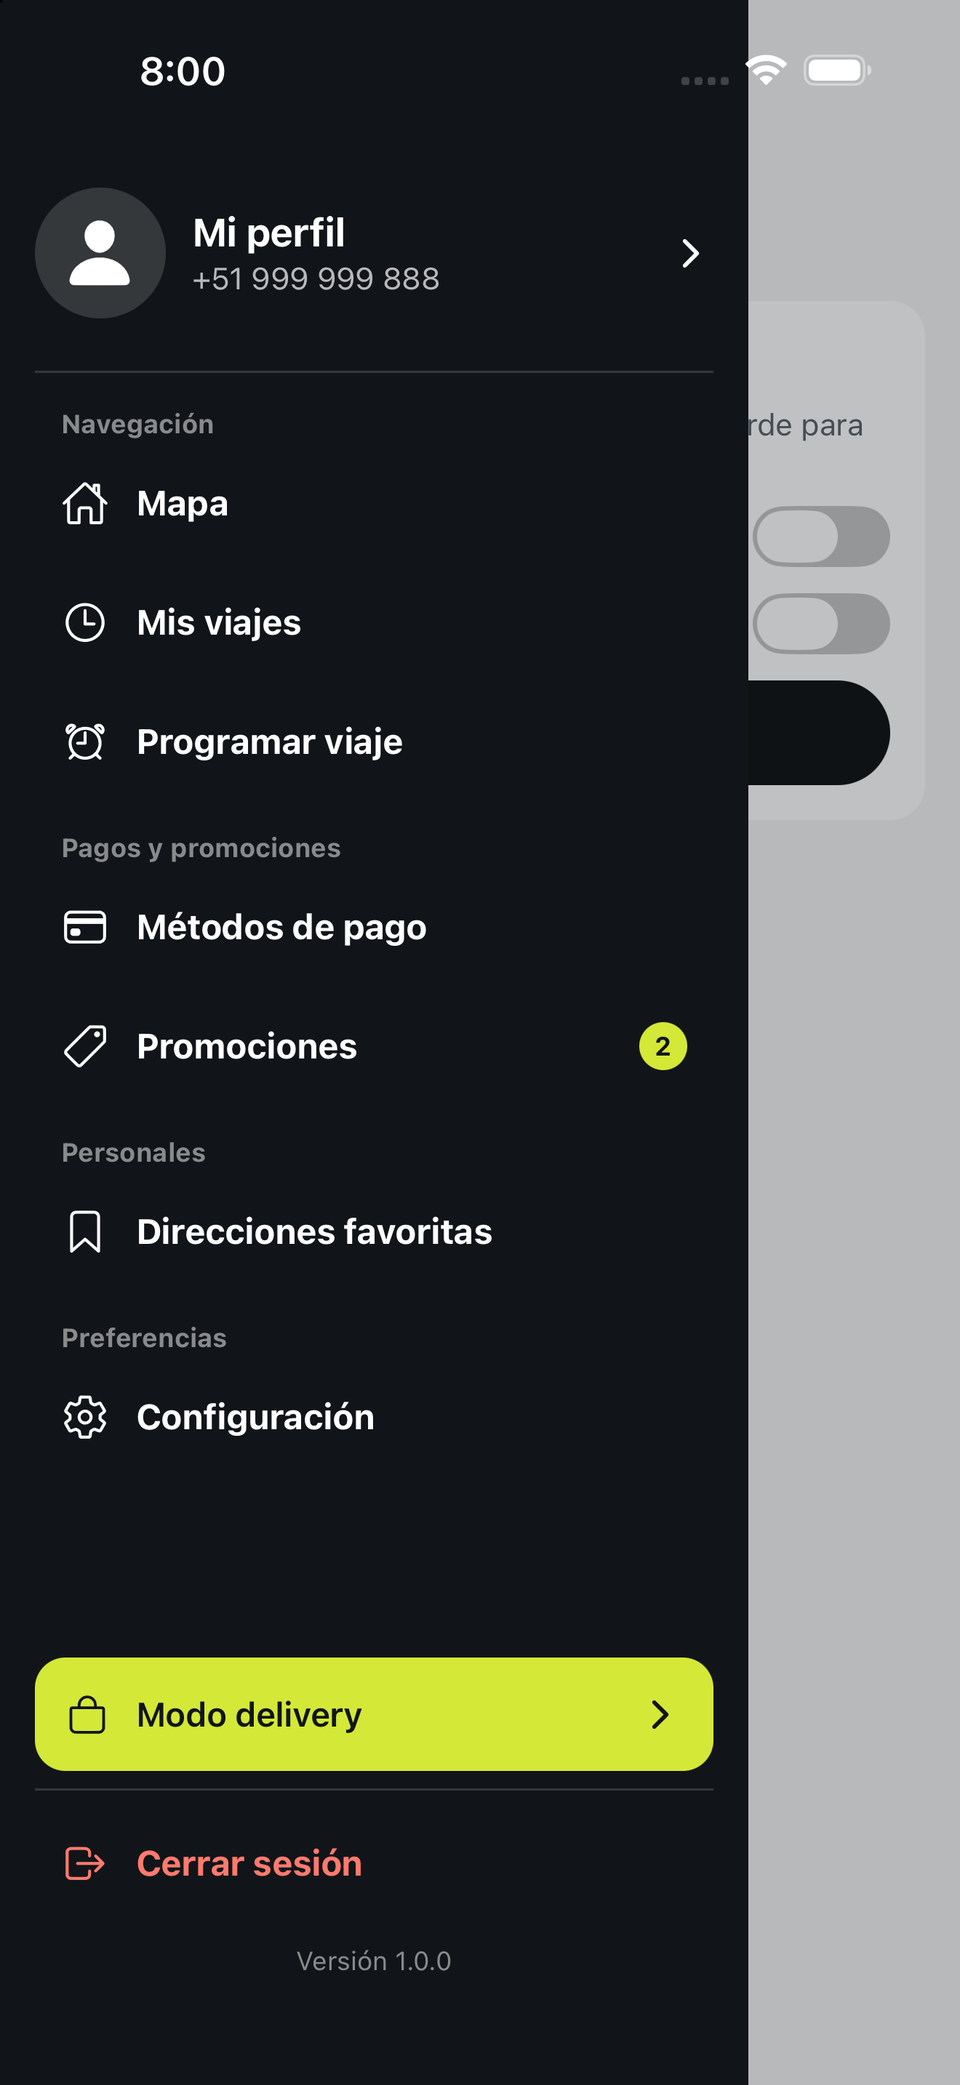
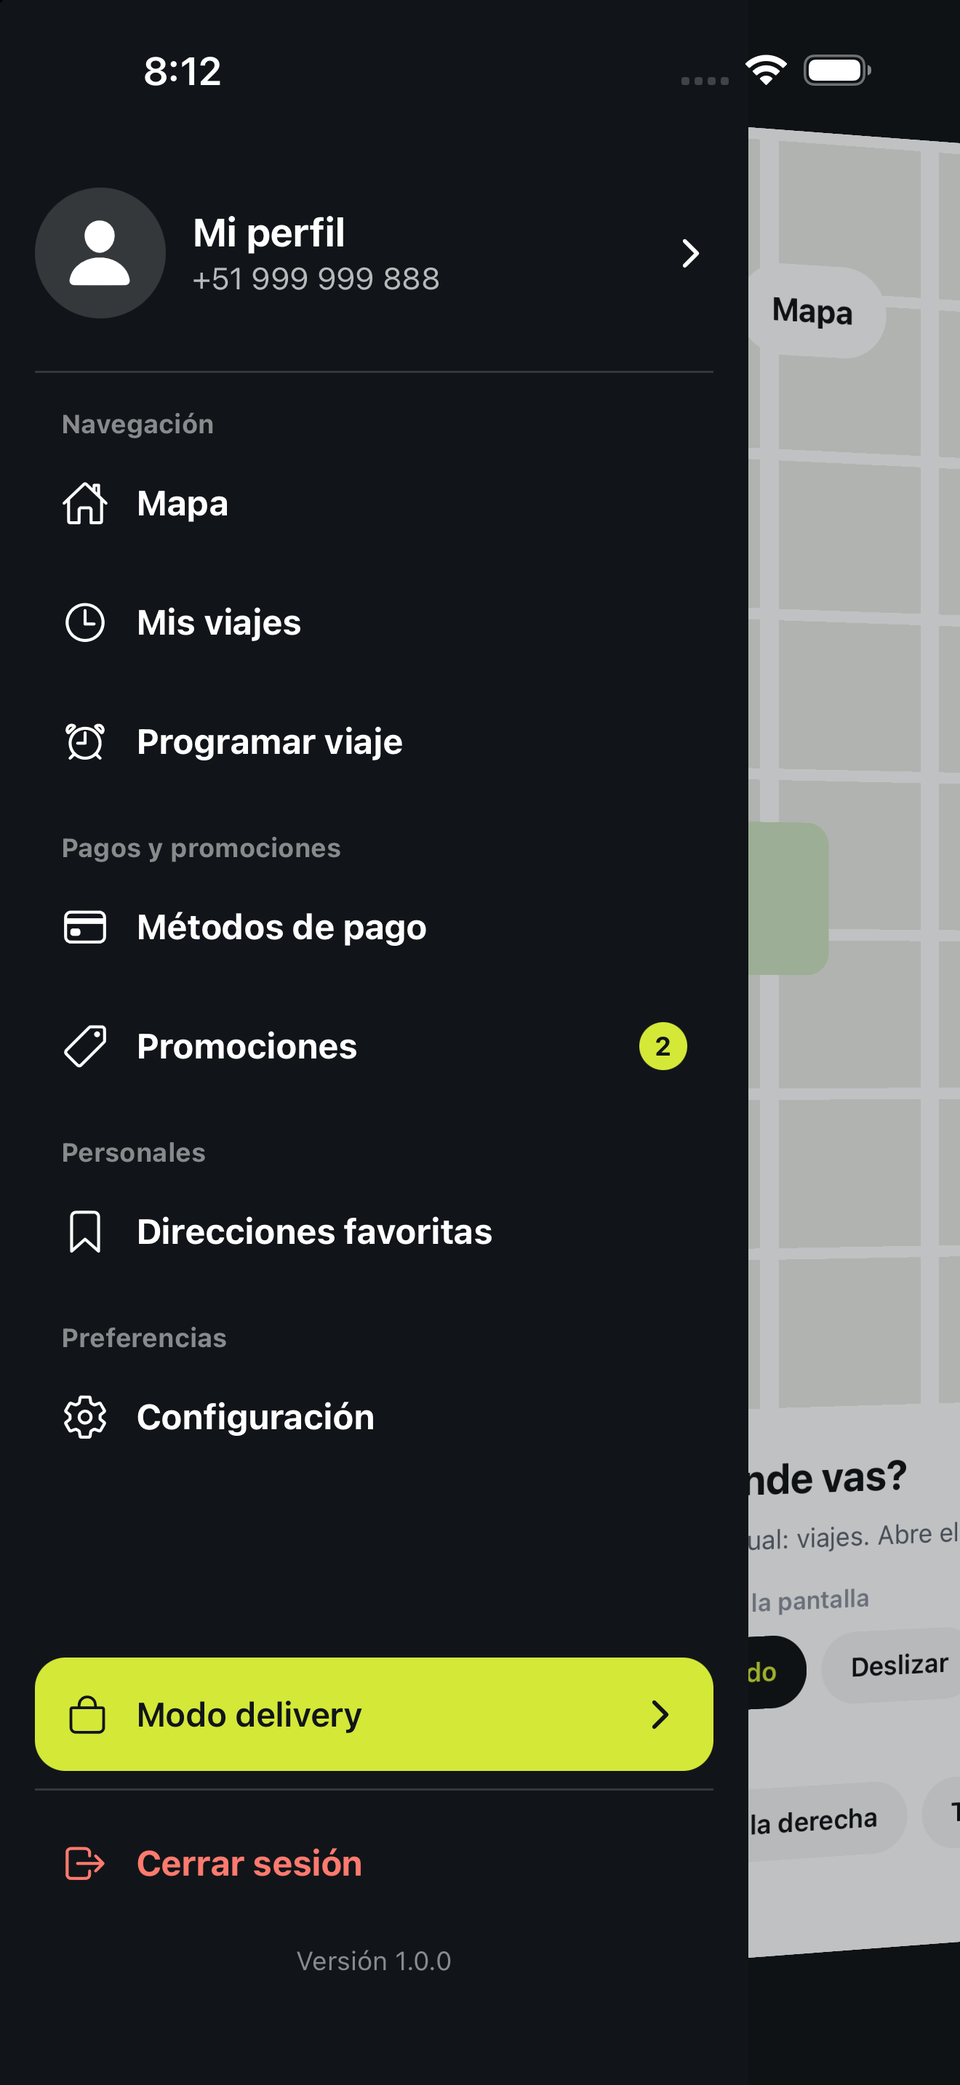
docs: documentar el efecto de la pantalla y el contenido propio
Actualiza las capturas con la pantalla inclinada.

diff --git a/README.es.md b/README.es.md
@@ -2,7 +2,7 @@
 
 🌐 [English](https://github.com/VMichael1999/expo-reanimated-side-menu/blob/main/README.md) | **Español**
 
-Un menú lateral (drawer) cuidado para **Expo** y **React Native**. Entra deslizándose con Reanimated sobre un fondo que se oscurece, se cierra arrastrándolo, y trae cabecera de perfil, secciones con título, contadores, un botón destacado y la opción de cerrar sesión. Todos los colores y fuentes se pueden cambiar.
+Un menú lateral (drawer) cuidado para **Expo** y **React Native**. Entra deslizándose con Reanimated mientras tu pantalla se corre a un lado, se achica y gira en 3D, y se cierra arrastrándolo. Lo que va dentro del panel lo decides tú: usa la cabecera de perfil, las secciones, los contadores, el botón destacado y cerrar sesión que ya trae, solo algunos, o tu propio contenido. Todos los colores y fuentes se pueden cambiar.
 
 [![CI](https://github.com/VMichael1999/expo-reanimated-side-menu/actions/workflows/ci.yml/badge.svg)](https://github.com/VMichael1999/expo-reanimated-side-menu/actions/workflows/ci.yml)
 [![License: MIT](https://img.shields.io/badge/License-MIT-yellow.svg)](https://github.com/VMichael1999/expo-reanimated-side-menu/blob/main/LICENSE)
@@ -13,24 +13,24 @@ Un menú lateral (drawer) cuidado para **Expo** y **React Native**. Entra desliz
 Tomadas con la [app de ejemplo](#app-de-ejemplo) en un simulador iPhone 17 Pro Max.
 
 <p align="center">
-  <img src="https://raw.githubusercontent.com/VMichael1999/expo-reanimated-side-menu/main/docs/screenshots/01-dark.png" width="200" alt="Menú oscuro con perfil, secciones, el botón destacado y cerrar sesión"/>
+  <img src="https://raw.githubusercontent.com/VMichael1999/expo-reanimated-side-menu/main/docs/screenshots/01-dark.png" width="200" alt="Menú oscuro con la pantalla de atrás girada en 3D"/>
   <img src="https://raw.githubusercontent.com/VMichael1999/expo-reanimated-side-menu/main/docs/screenshots/02-light.png" width="200" alt="El mismo menú con un tema claro"/>
-  <img src="https://raw.githubusercontent.com/VMichael1999/expo-reanimated-side-menu/main/docs/screenshots/03-right.png" width="200" alt="Menú que se abre desde la derecha"/>
+  <img src="https://raw.githubusercontent.com/VMichael1999/expo-reanimated-side-menu/main/docs/screenshots/03-right.png" width="200" alt="Menú que se abre desde la derecha, con la pantalla girada hacia el otro lado"/>
 </p>
 
-1. **Tema por defecto**: panel oscuro con acento lima.
+1. **Aspecto por defecto**: panel oscuro con acento lima, y la pantalla corrida, achicada y girada en 3D (`scene`).
 2. **Tema claro**: basta un objeto `theme`.
 3. **`side="right"`**: se abre desde el otro borde.
 
 ## Características
 
 - Entra y sale con **Reanimated**, en el hilo de la interfaz.
+- **Tu pantalla se corre a un lado** mientras se abre el menú: girada en 3D (`tilt`, por defecto), empujada (`slide`) o quieta (`none`), todo ajustable.
 - **Deslizar para cerrar**: arrastra el panel hacia su borde; si lo sueltas pasado un tercio, o con un gesto rápido, se cierra.
 - Se dibuja en un `Modal`, así que tapa toda la app, cabeceras y barras de pestañas incluidas. El botón atrás de Android lo cierra.
 - Mientras está abierto, pone la **barra de estado** en claro u oscuro según el panel.
 - **Las acciones se ejecutan cuando el menú ya se cerró**, así navegar nunca choca con la animación.
-- **Cabecera de perfil** con avatar, título y subtítulo, o la tuya propia.
-- **Secciones** con título opcional, **contadores**, un **botón destacado** y la fila de **cerrar sesión**.
+- **Todo lo de dentro es opcional y reemplazable**: cabecera de perfil, secciones, **contadores**, un **botón destacado**, la fila de **cerrar sesión** y el texto del pie, o tu propio `header`, `footer` o el `content` completo.
 - Se abre desde la **izquierda o la derecha**, con el **ancho** que quieras.
 - **Temas** para todos los colores y fuentes; también acepta tus propios iconos.
 - Escrito en TypeScript y sin código nativo propio: funciona en Expo Go.
@@ -55,43 +55,66 @@ Envuelve tu app en `SafeAreaProvider` (Expo Router ya lo hace). El menú toma de
 
 ## Inicio rápido
 
+Envuelve la pantalla que abre el menú; esa pantalla es la que se corre a un lado:
+
 ```tsx
 import { useState } from 'react';
-import { Button } from 'react-native';
+import { Button, View } from 'react-native';
 import { SideMenu } from 'expo-reanimated-side-menu';
 
 export function Inicio({ navigation }) {
   const [abierto, setAbierto] = useState(false);
 
   return (
-    <>
-      <Button title="Menú" onPress={() => setAbierto(true)} />
-      <SideMenu
-        visible={abierto}
-        onClose={() => setAbierto(false)}
-        profile={{ title: 'Mi perfil', subtitle: '+51 999 999 888', onPress: () => navigation.navigate('Perfil') }}
-        sections={[
-          {
-            key: 'main',
-            title: 'Navegación',
-            items: [
-              { key: 'viajes', label: 'Mis viajes', icon: 'time-outline', onPress: () => navigation.navigate('Viajes') },
-              { key: 'avisos', label: 'Notificaciones', icon: 'notifications-outline', badge: 3, onPress: () => navigation.navigate('Avisos') },
-            ],
-          },
-        ]}
-        logout={{ label: 'Cerrar sesión', onPress: cerrarSesion }}
-        footerText="Versión 1.0.0"
-        closeLabel="Cerrar menú"
-      />
-    </>
+    <SideMenu
+      visible={abierto}
+      onClose={() => setAbierto(false)}
+      profile={{ title: 'Mi perfil', subtitle: '+51 999 999 888', onPress: () => navigation.navigate('Perfil') }}
+      sections={[
+        {
+          key: 'main',
+          title: 'Navegación',
+          items: [
+            { key: 'viajes', label: 'Mis viajes', icon: 'time-outline', onPress: () => navigation.navigate('Viajes') },
+            { key: 'avisos', label: 'Notificaciones', icon: 'notifications-outline', badge: 3, onPress: () => navigation.navigate('Avisos') },
+          ],
+        },
+      ]}
+      logout={{ label: 'Cerrar sesión', onPress: cerrarSesion }}
+      footerText="Versión 1.0.0"
+      closeLabel="Cerrar menú">
+      {/* Tu pantalla */}
+      <View style={{ flex: 1 }}>
+        <Button title="Menú" onPress={() => setAbierto(true)} />
+      </View>
+    </SideMenu>
   );
 }
 ```
 
 El menú es controlado: tú manejas `visible` y lo vuelves a `false` en `onClose`. Al tocar una opción se llama primero a `onClose` y el `onPress` de la opción se ejecuta cuando el panel ya desapareció.
 
+Sin `children` el menú funciona igual, solo que no mueve ninguna pantalla: pon `<SideMenu ... />` donde quieras.
+
 ## Guía
+
+### La pantalla de atrás: `scene`
+
+Los `children` que envuelves se corren a un lado mientras se abre el menú, y siguen al panel cuando lo arrastras:
+
+```tsx
+<SideMenu scene={{ effect: 'tilt' }} ...>   {/* por defecto: corrida, achicada y girada en 3D */}
+<SideMenu scene={{ effect: 'slide' }} ...>  {/* empujada el ancho del panel */}
+<SideMenu scene={{ effect: 'none' }} ...>   {/* se queda donde está */}
+```
+
+Cada valor se puede ajustar sobre el efecto:
+
+```tsx
+scene={{ effect: 'tilt', offset: 0.6, scale: 0.8, rotate: 12, borderRadius: 32 }}
+```
+
+Un `offset` hasta `1` es una fracción de la pantalla; los valores mayores son puntos. El espacio alrededor de la pantalla muestra el color del panel.
 
 ### Secciones y opciones
 
@@ -99,13 +122,14 @@ Cada sección tiene una `key`, un `title` opcional y sus `items`. El `icon` de u
 
 ```tsx
 { key: 'carrito', label: 'Carrito', icon: <MiIconoCarrito />, badge: 2, onPress: abrirCarrito }
+{ key: 'borrar', label: 'Eliminar cuenta', icon: 'trash-outline', color: '#E5484D', onPress: eliminarCuenta }
 ```
 
 ### Cabecera
 
 `profile` dibuja un avatar, un título y un subtítulo. `avatar` acepta una imagen (`require(...)` o `{ uri }`) o un elemento; sin él se muestra el icono de una persona. Con `onPress`, la cabecera muestra una flecha y se vuelve un botón.
 
-Si necesitas algo totalmente distinto, pasa tu propio elemento en `header`.
+Si necesitas algo totalmente distinto, pasa tu propio `header` (mira abajo).
 
 ### Botón destacado
 
@@ -123,6 +147,29 @@ action={{
 ### Cerrar sesión y pie
 
 `logout` agrega abajo una fila en el color de peligro (`label` por defecto es `'Log out'`). `footerText` agrega un texto pequeño y centrado debajo, como la versión de la app.
+
+### Tu propio contenido
+
+Todas las piezas son opcionales: deja fuera lo que no necesites. Y hay tres espacios para tu propio contenido:
+
+- `header`: reemplaza la cabecera de perfil.
+- `footer`: se agrega al final del panel.
+- `content`: reemplaza todo lo que hay dentro del panel.
+
+Cada uno acepta un elemento, o una función que recibe `close` y `closeThen`, para que tus botones puedan cerrar el menú y actuar cuando ya se fue:
+
+```tsx
+<SideMenu
+  visible={abierto}
+  onClose={() => setAbierto(false)}
+  header={<MiCabeceraDeMarca />}
+  sections={secciones}
+  footer={({ closeThen }) => (
+    <Button title="Ayuda" onPress={() => closeThen(() => navigation.navigate('Ayuda'))} />
+  )}>
+  <Pantalla />
+</SideMenu>
+```
 
 ### Lado, ancho y tiempos
 
@@ -164,12 +211,16 @@ Sin `fonts` se usa la fuente del sistema con el grosor adecuado. `defaultTheme` 
 | --- | --- | --- | --- |
 | `visible` | `boolean` | | Si el menú está abierto. |
 | `onClose` | `() => void` | | Toque en el fondo, deslizar, atrás en Android, o antes de ejecutar una opción. |
-| `sections` | `SideMenuSection[]` | | El contenido del menú. |
+| `children` | `ReactNode` | | Tu pantalla; se corre a un lado con `scene`. |
+| `scene` | `SideMenuScene` | `{ effect: 'tilt' }` | `effect`, `offset`, `scale`, `rotate`, `borderRadius`. |
+| `sections` | `SideMenuSection[]` | `[]` | Grupos de opciones con título. |
 | `profile` | `SideMenuProfile` | | Avatar, título, subtítulo y `onPress`. |
-| `header` | `ReactNode` | | Reemplaza a `profile`. |
+| `header` | `SideMenuSlot` | | Reemplaza a `profile`. |
 | `action` | `SideMenuAction` | | Botón destacado: `label`, `icon`, `onPress`, `variant`. |
 | `logout` | `SideMenuLogout` | | `label`, `icon`, `onPress`. |
 | `footerText` | `string` | | Texto pequeño al final. |
+| `footer` | `SideMenuSlot` | | Tu propio contenido al final. |
+| `content` | `SideMenuSlot` | | Reemplaza todo lo de dentro del panel. |
 | `side` | `'left' \| 'right'` | `'left'` | Borde desde el que entra. |
 | `width` | `number` | `0.78` | Fracción de la pantalla, o puntos. |
 | `theme` | `SideMenuThemeOverrides` | | Colores y fuentes. |

diff --git a/README.md b/README.md
@@ -2,7 +2,7 @@
 
 🌐 **English** | [Español](https://github.com/VMichael1999/expo-reanimated-side-menu/blob/main/README.es.md)
 
-A polished side menu (drawer) for **Expo** and **React Native**. It slides in with Reanimated over a fading backdrop, closes with a swipe, and comes with a profile header, titled sections, badges, a highlighted action button and a logout row. Every color and font can be changed.
+A polished side menu (drawer) for **Expo** and **React Native**. It slides in with Reanimated while your screen moves aside, shrinks and turns in 3D, and closes with a swipe. Everything inside the panel is up to you: use the ready-made profile header, sections, badges, highlighted button and logout row, any of them, or your own content. Every color and font can be changed.
 
 [![CI](https://github.com/VMichael1999/expo-reanimated-side-menu/actions/workflows/ci.yml/badge.svg)](https://github.com/VMichael1999/expo-reanimated-side-menu/actions/workflows/ci.yml)
 [![License: MIT](https://img.shields.io/badge/License-MIT-yellow.svg)](https://github.com/VMichael1999/expo-reanimated-side-menu/blob/main/LICENSE)
@@ -13,24 +13,24 @@ A polished side menu (drawer) for **Expo** and **React Native**. It slides in wi
 Taken with the [example app](#example-app) on an iPhone 17 Pro Max simulator.
 
 <p align="center">
-  <img src="https://raw.githubusercontent.com/VMichael1999/expo-reanimated-side-menu/main/docs/screenshots/01-dark.png" width="200" alt="Dark menu with profile, sections, the accent action and logout"/>
+  <img src="https://raw.githubusercontent.com/VMichael1999/expo-reanimated-side-menu/main/docs/screenshots/01-dark.png" width="200" alt="Dark menu with the screen behind it turned in 3D"/>
   <img src="https://raw.githubusercontent.com/VMichael1999/expo-reanimated-side-menu/main/docs/screenshots/02-light.png" width="200" alt="The same menu with a light theme"/>
-  <img src="https://raw.githubusercontent.com/VMichael1999/expo-reanimated-side-menu/main/docs/screenshots/03-right.png" width="200" alt="Menu opening from the right edge"/>
+  <img src="https://raw.githubusercontent.com/VMichael1999/expo-reanimated-side-menu/main/docs/screenshots/03-right.png" width="200" alt="Menu opening from the right edge, with the screen turned the other way"/>
 </p>
 
-1. **Default theme**: dark panel with a lime accent.
+1. **Default look**: dark panel with a lime accent, and the screen shifted, shrunk and turned in 3D (`scene`).
 2. **Light theme**: just a `theme` object.
 3. **`side="right"`**: opens from the other edge.
 
 ## Features
 
 - Slides in and out with **Reanimated**, on the UI thread.
+- **Your screen moves aside** while the menu opens: turned in 3D (`tilt`, the default), pushed (`slide`) or left still (`none`), all adjustable.
 - **Swipe to close**: drag the panel towards its edge; let go past a third of it, or flick it, and it closes.
 - Rendered in a `Modal`, so it covers the whole app, headers and tab bars included. The Android back button closes it.
 - Switches the **status bar** to light or dark text to match the panel while it is open.
 - **Actions run after the menu closes**, so navigating never fights the closing animation.
-- **Profile header** with avatar, title and subtitle, or your own header.
-- **Sections** with optional titles, **badges**, a highlighted **action** button and a **logout** row.
+- **Everything inside is optional and replaceable**: profile header, sections, **badges**, a highlighted **action** button, a **logout** row and footer text, or your own `header`, `footer` or whole `content`.
 - Opens from the **left or right**, with any **width**.
 - **Theming** of every color and font; works with your own icons too.
 - Written in TypeScript, no native code of its own: works in Expo Go.
@@ -55,42 +55,65 @@ Wrap your app in `SafeAreaProvider` (Expo Router already does it). The menu read
 
 ## Quick start
 
+Wrap the screen that opens the menu; that screen is what moves aside:
+
 ```tsx
 import { useState } from 'react';
-import { Button } from 'react-native';
+import { Button, View } from 'react-native';
 import { SideMenu } from 'expo-reanimated-side-menu';
 
 export function Home({ navigation }) {
   const [open, setOpen] = useState(false);
 
   return (
-    <>
-      <Button title="Menu" onPress={() => setOpen(true)} />
-      <SideMenu
-        visible={open}
-        onClose={() => setOpen(false)}
-        profile={{ title: 'My profile', subtitle: '+1 555 0100', onPress: () => navigation.navigate('Profile') }}
-        sections={[
-          {
-            key: 'main',
-            title: 'Navigation',
-            items: [
-              { key: 'trips', label: 'My trips', icon: 'time-outline', onPress: () => navigation.navigate('Trips') },
-              { key: 'inbox', label: 'Inbox', icon: 'mail-outline', badge: 3, onPress: () => navigation.navigate('Inbox') },
-            ],
-          },
-        ]}
-        logout={{ onPress: signOut }}
-        footerText="Version 1.0.0"
-      />
-    </>
+    <SideMenu
+      visible={open}
+      onClose={() => setOpen(false)}
+      profile={{ title: 'My profile', subtitle: '+1 555 0100', onPress: () => navigation.navigate('Profile') }}
+      sections={[
+        {
+          key: 'main',
+          title: 'Navigation',
+          items: [
+            { key: 'trips', label: 'My trips', icon: 'time-outline', onPress: () => navigation.navigate('Trips') },
+            { key: 'inbox', label: 'Inbox', icon: 'mail-outline', badge: 3, onPress: () => navigation.navigate('Inbox') },
+          ],
+        },
+      ]}
+      logout={{ onPress: signOut }}
+      footerText="Version 1.0.0">
+      {/* Your screen */}
+      <View style={{ flex: 1 }}>
+        <Button title="Menu" onPress={() => setOpen(true)} />
+      </View>
+    </SideMenu>
   );
 }
 ```
 
 The menu is controlled: you own `visible` and set it back to `false` in `onClose`. Tapping an item calls `onClose` first and runs the item's `onPress` once the panel is gone.
 
+Without `children` the menu still works, just without moving any screen: render `<SideMenu ... />` anywhere.
+
 ## Guide
+
+### The screen behind: `scene`
+
+The `children` you wrap move aside while the menu opens, following the panel as it is dragged:
+
+```tsx
+<SideMenu scene={{ effect: 'tilt' }} ...>   {/* default: shifted, shrunk and turned in 3D */}
+<SideMenu scene={{ effect: 'slide' }} ...>  {/* pushed aside by the panel's width */}
+<SideMenu scene={{ effect: 'none' }} ...>   {/* stays where it is */}
+```
+
+Every value can be tuned on top of the effect:
+
+```tsx
+scene={{ effect: 'tilt', offset: 0.6, scale: 0.8, rotate: 12, borderRadius: 32 }}
+```
+
+`offset` up to `1` is a fraction of the screen, larger values are points. The space around the screen shows the panel color.
 
 ### Sections and items
 
@@ -98,13 +121,14 @@ Each section has a `key`, an optional `title` and its `items`. An item's `icon` 
 
 ```tsx
 { key: 'cart', label: 'Cart', icon: <MyCartIcon />, badge: 2, onPress: openCart }
+{ key: 'delete', label: 'Delete account', icon: 'trash-outline', color: '#E5484D', onPress: deleteAccount }
 ```
 
 ### Header
 
 `profile` draws an avatar, a title and a subtitle. `avatar` takes an image (`require(...)` or `{ uri }`) or an element; without it a person icon is shown. With `onPress`, the header shows a chevron and becomes a button.
 
-For something else entirely, pass your own `header` element instead.
+For something else entirely, pass your own `header` instead (see below).
 
 ### Highlighted action
 
@@ -122,6 +146,29 @@ action={{
 ### Logout and footer
 
 `logout` adds a row in the danger color at the bottom (`label` defaults to `'Log out'`). `footerText` adds a small centered text below it, such as the app version.
+
+### Your own content
+
+Every piece is optional: leave out whatever you don't need. And three slots take your own content:
+
+- `header`: replaces the profile header.
+- `footer`: added at the very bottom of the panel.
+- `content`: replaces everything inside the panel.
+
+Each one takes an element, or a function that receives `close` and `closeThen`, so your own buttons can close the menu and act once it is gone:
+
+```tsx
+<SideMenu
+  visible={open}
+  onClose={() => setOpen(false)}
+  header={<MyBrandHeader />}
+  sections={sections}
+  footer={({ closeThen }) => (
+    <Button title="Help" onPress={() => closeThen(() => navigation.navigate('Help'))} />
+  )}>
+  <Screen />
+</SideMenu>
+```
 
 ### Side, width and timing
 
@@ -163,12 +210,16 @@ Without `fonts`, the system font is used at the right weights. `defaultTheme` is
 | --- | --- | --- | --- |
 | `visible` | `boolean` | | Whether the menu is open. |
 | `onClose` | `() => void` | | Backdrop tap, swipe, Android back, or before an item runs. |
-| `sections` | `SideMenuSection[]` | | The menu content. |
+| `children` | `ReactNode` | | Your screen; it moves aside with `scene`. |
+| `scene` | `SideMenuScene` | `{ effect: 'tilt' }` | `effect`, `offset`, `scale`, `rotate`, `borderRadius`. |
+| `sections` | `SideMenuSection[]` | `[]` | Titled groups of items. |
 | `profile` | `SideMenuProfile` | | Avatar, title, subtitle and `onPress`. |
-| `header` | `ReactNode` | | Replaces `profile`. |
+| `header` | `SideMenuSlot` | | Replaces `profile`. |
 | `action` | `SideMenuAction` | | Highlighted button: `label`, `icon`, `onPress`, `variant`. |
 | `logout` | `SideMenuLogout` | | `label`, `icon`, `onPress`. |
 | `footerText` | `string` | | Small text at the bottom. |
+| `footer` | `SideMenuSlot` | | Your own content at the very bottom. |
+| `content` | `SideMenuSlot` | | Replaces everything inside the panel. |
 | `side` | `'left' \| 'right'` | `'left'` | Edge it slides from. |
 | `width` | `number` | `0.78` | Fraction of the screen, or points. |
 | `theme` | `SideMenuThemeOverrides` | | Colors and fonts. |

diff --git a/CHANGELOG.md b/CHANGELOG.md
@@ -7,10 +7,12 @@ First release of `expo-reanimated-side-menu`, extracted from the side menu built
 ### 🎉 New features
 
 - `SideMenu`: side panel that slides in with Reanimated over a fading backdrop, inside a `Modal` so it covers the whole app, navigation bars included.
+- `children` and `scene`: the wrapped screen moves aside while the menu opens, turned in 3D (`tilt`, the default), pushed (`slide`) or still (`none`), with adjustable `offset`, `scale`, `rotate` and `borderRadius`.
 - Swipe the panel towards its edge to close it (`swipeToClose`), or tap the backdrop, or press the Android back button.
 - Item actions run once the menu has finished closing, so the next screen never fights the animation.
 - `sections` with optional titles, Ionicons names or your own elements as icons, and `badge` counters.
-- `profile` header with avatar, title, subtitle and an optional `onPress`; or your own `header`.
+- `profile` header with avatar, title, subtitle and an optional `onPress`.
+- Every piece is optional; `header`, `footer` and `content` take your own elements, or functions that receive `close` and `closeThen`. Items can have their own `color`.
 - Highlighted `action` button (`accent` or `outline`), `logout` row and `footerText`.
 - `side` (`left` / `right`), `width` (fraction of the screen or points), `openDuration` / `closeDuration`.
 - `theme`: every color and the fonts can be overridden; `defaultTheme` is exported.
